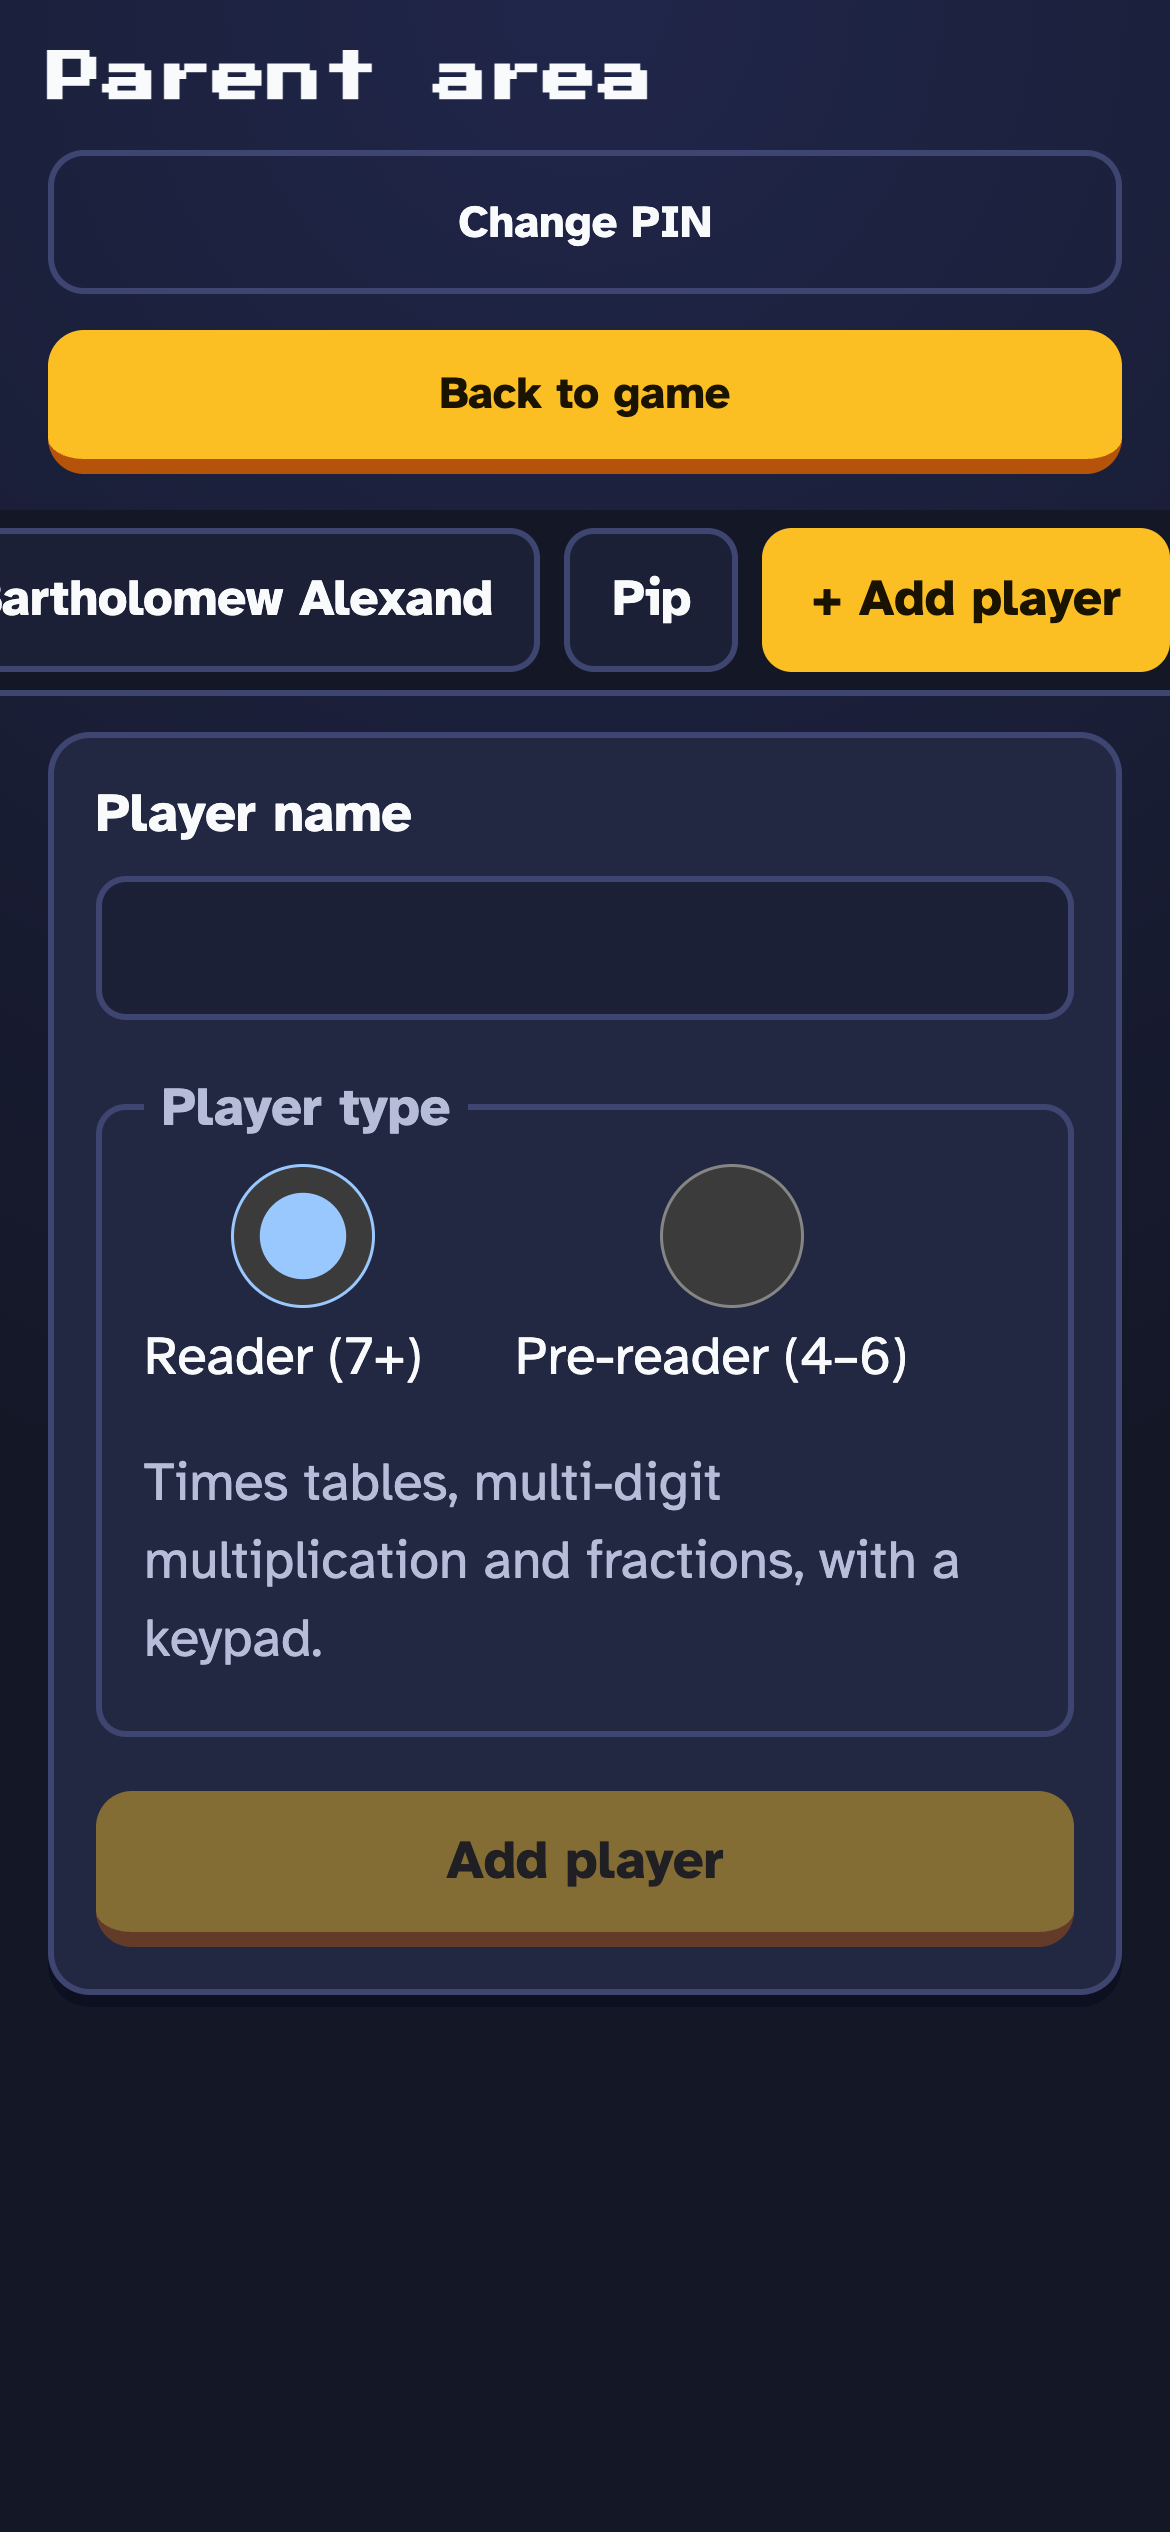
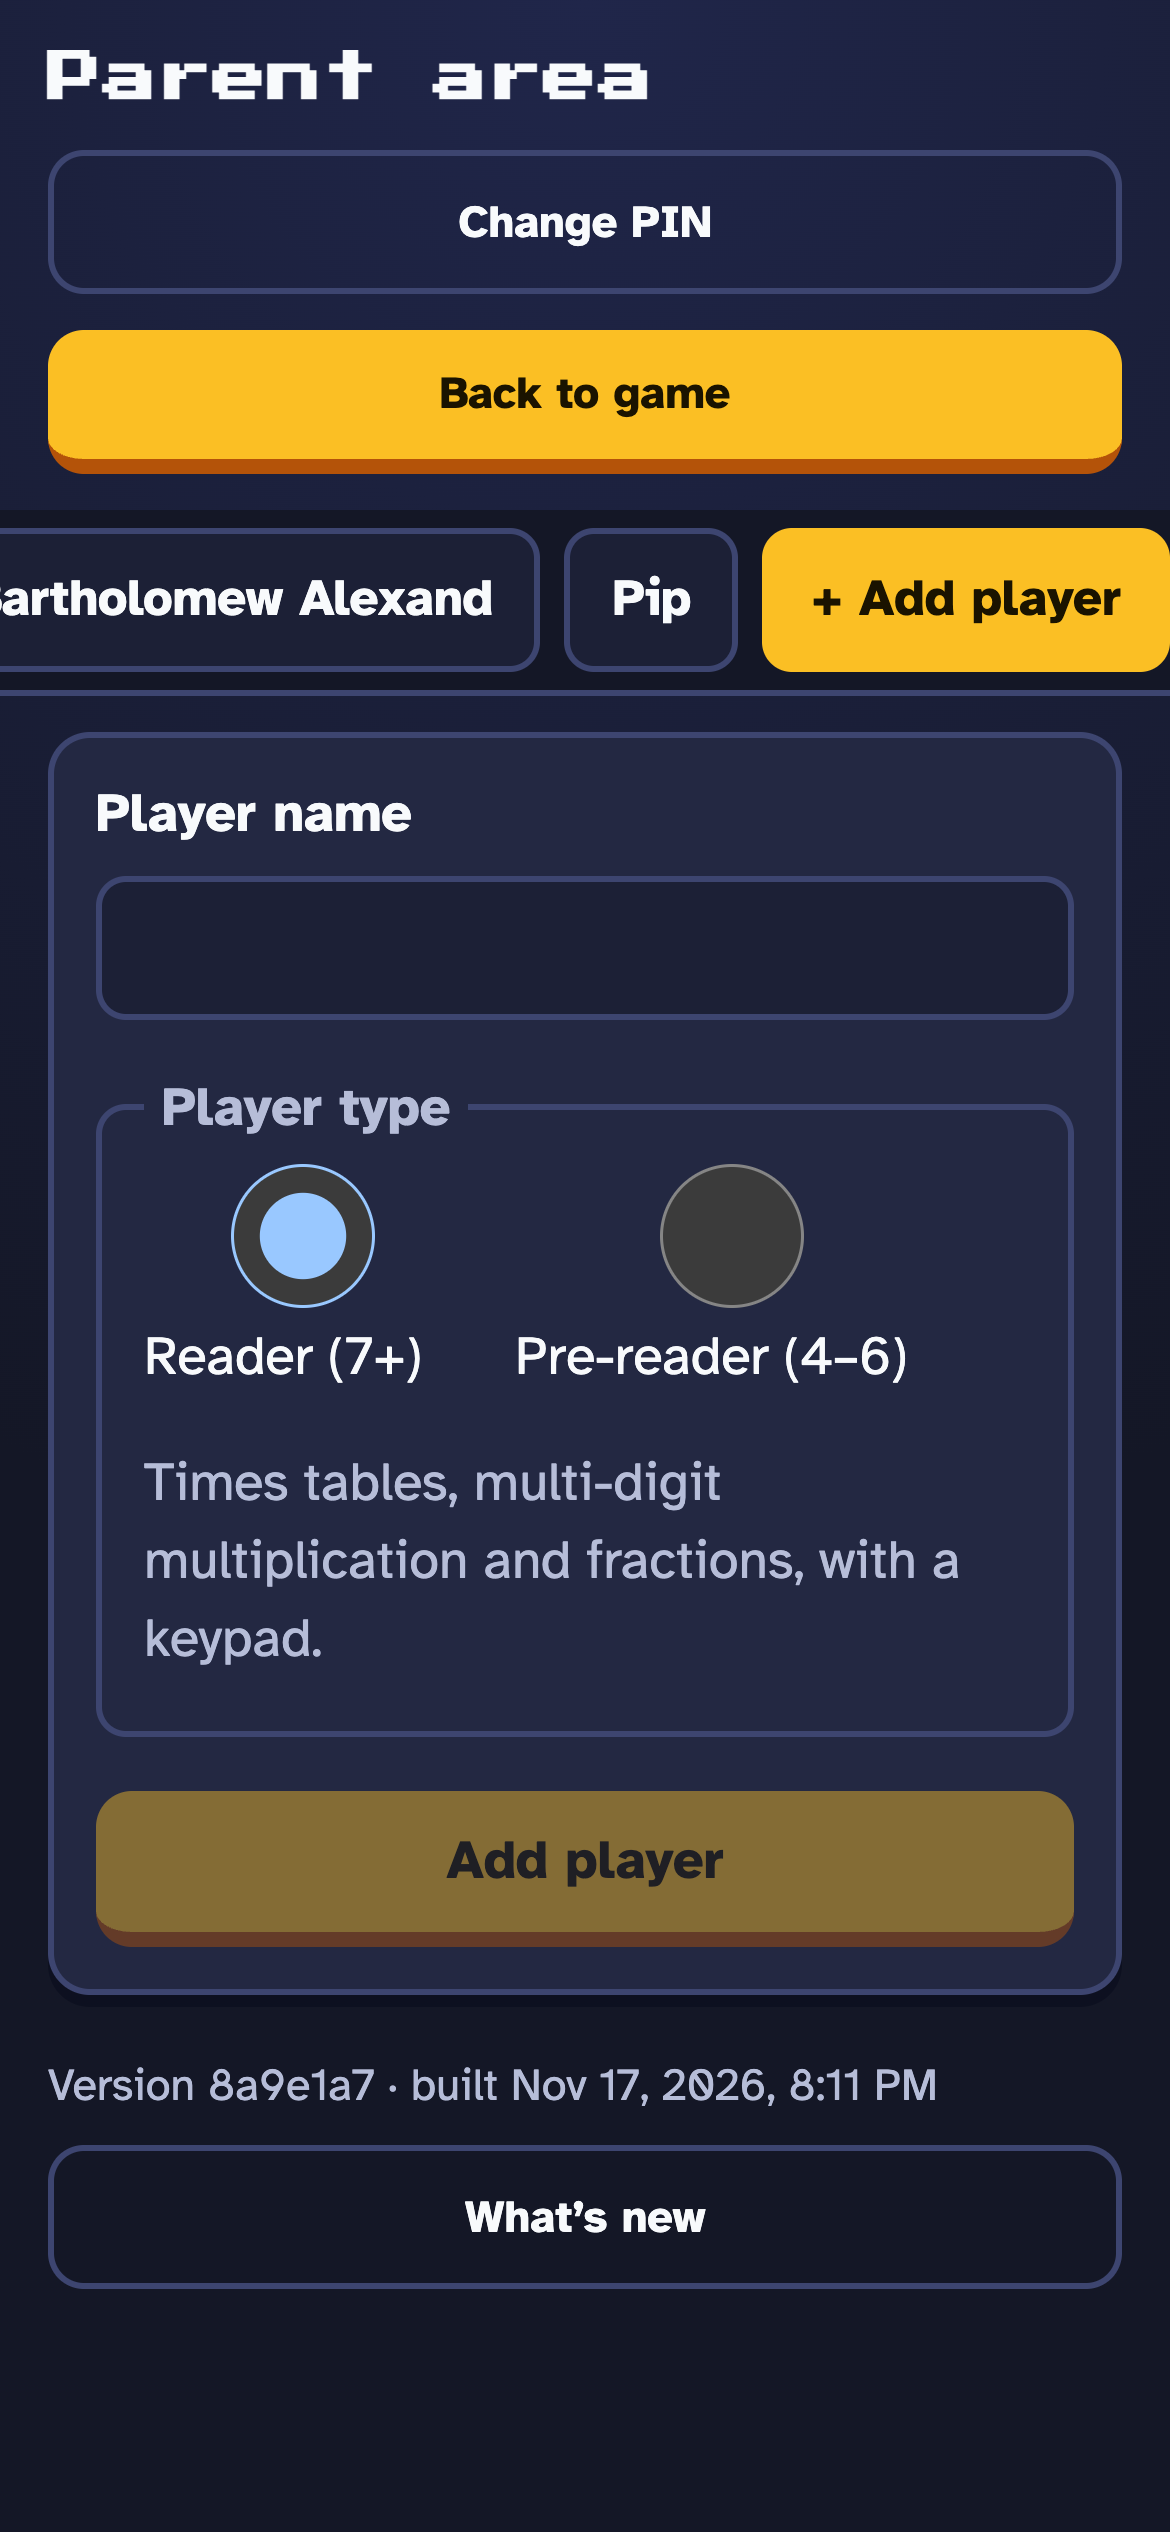
parent-mobile: version footer, What's new list (backfill #10-#19), CI check for src/whatsnew.ts
Footer shows the short sha and build time (Vite define). src/whatsnew.ts keeps the last 10 merged changes.
scripts/check-whatsnew.mjs fails a PR that changes src/ without src/whatsnew.ts unless it has the no-whatsnew label.

diff --git a/scripts/check-whatsnew.test.ts b/scripts/check-whatsnew.test.ts
@@ -1,0 +1,70 @@
+import { mkdirSync, mkdtempSync, writeFileSync } from 'node:fs';
+import { tmpdir } from 'node:os';
+import { join } from 'node:path';
+import { spawnSync } from 'node:child_process';
+import { fileURLToPath } from 'node:url';
+import { describe, expect, it } from 'vitest';
+import { checkWhatsnew } from './check-whatsnew.mjs';
+
+const root = fileURLToPath(new URL('..', import.meta.url));
+const run = (files: string[], labels: string[]) =>
+  spawnSync(process.execPath, ['scripts/check-whatsnew.mjs'], {
+    cwd: root,
+    encoding: 'utf8',
+    env: { ...process.env, CHANGED_FILES: files.join('\n'), PR_LABELS: JSON.stringify(labels) },
+  });
+
+describe('checkWhatsnew (pure)', () => {
+  it('fails when src/ changes and whatsnew.ts does not', () => {
+    expect(checkWhatsnew({ files: ['src/ui/screens/Parent.tsx'], labels: [] }).ok).toBe(false);
+  });
+  it('passes when src/whatsnew.ts changes too', () => {
+    expect(checkWhatsnew({ files: ['src/ui/screens/Parent.tsx', 'src/whatsnew.ts'], labels: [] }).ok).toBe(true);
+  });
+  it('passes with the no-whatsnew label', () => {
+    expect(checkWhatsnew({ files: ['src/engine/mastery.ts'], labels: ['no-whatsnew'] }).ok).toBe(true);
+  });
+  it('passes when nothing under src/ changes', () => {
+    expect(checkWhatsnew({ files: ['README.md', 'firestore.rules', 'e2e/a.e2e.ts'], labels: [] }).ok).toBe(true);
+  });
+});
+
+describe('scripts/check-whatsnew.mjs on a fake diff', () => {
+  it('exits 1 for src/ without whatsnew', () => {
+    const r = run(['src/styles.css', 'README.md'], ['bug']);
+    expect(r.status).toBe(1);
+    expect(r.stderr).toMatch(/whatsnew/);
+  });
+  it('exits 0 when whatsnew.ts is in the diff', () => {
+    expect(run(['src/styles.css', 'src/whatsnew.ts'], []).status).toBe(0);
+  });
+  it('exits 0 with the no-whatsnew label', () => {
+    expect(run(['src/styles.css'], ['no-whatsnew']).status).toBe(0);
+  });
+});
+
+describe('scripts/check-whatsnew.mjs reading git', () => {
+  it('fails on a real diff that touches src/ only, passes when whatsnew.ts is added', () => {
+    const git = (cwd: string, ...a: string[]) => spawnSync('git', a, { cwd, encoding: 'utf8' });
+    const dir = mkdtempSync(join(tmpdir(), 'wn-'));
+    git(dir, 'init', '-q');
+    git(dir, 'config', 'user.email', 'a@b.c');
+    git(dir, 'config', 'user.name', 'x');
+    mkdirSync(join(dir, 'src'));
+    writeFileSync(join(dir, 'src/a.ts'), '1');
+    writeFileSync(join(dir, 'src/whatsnew.ts'), '1');
+    git(dir, 'add', '.');
+    git(dir, 'commit', '-qm', 'base');
+    const base = git(dir, 'rev-parse', 'HEAD').stdout.trim();
+    writeFileSync(join(dir, 'src/a.ts'), '2');
+    git(dir, 'commit', '-qam', 'src only');
+    const head1 = git(dir, 'rev-parse', 'HEAD').stdout.trim();
+    writeFileSync(join(dir, 'src/whatsnew.ts'), '2');
+    git(dir, 'commit', '-qam', 'with whatsnew');
+    const head2 = git(dir, 'rev-parse', 'HEAD').stdout.trim();
+    const script = join(root, 'scripts/check-whatsnew.mjs');
+    const go = (head: string) => spawnSync(process.execPath, [script], { cwd: dir, encoding: 'utf8', env: { ...process.env, CHANGED_FILES: undefined, BASE_SHA: base, HEAD_SHA: head, PR_LABELS: '[]' } });
+    expect(go(head1).status).toBe(1);
+    expect(go(head2).status).toBe(0);
+  });
+});

diff --git a/src/whatsnew.ts b/src/whatsnew.ts
@@ -1,0 +1,44 @@
+// What's new: the last 10 merged changes in plain words, newest first. Every PR that changes src/ adds its line here
+// (CI check: scripts/check-whatsnew.mjs). Mark a change kids cannot see with behindTheScenes, and a change behind a
+// parent setting with setting. No kid names.
+
+declare const __APP_SHA__: string | undefined;
+declare const __APP_BUILD__: number | undefined;
+
+export interface WhatsNewEntry {
+  pr: number;
+  text: string;
+  /** Kids cannot see it. */
+  behindTheScenes?: boolean;
+  /** Off until a parent turns it on. */
+  setting?: boolean;
+}
+
+export const WHATS_NEW: readonly WhatsNewEntry[] = [
+  { pr: 20, text: 'The parent area fits an iPhone: a row of players at the top, two-column stat tiles, a times-table grid you can tap, full-width buttons. Pinch-zoom works for parents. Kids cannot pinch-zoom while they play. A version line at the bottom shows which build is live.' },
+  { pr: 19, text: 'A parent can choose which sum group a player starts at for Addition and Subtraction within 10.', setting: true },
+  { pr: 18, text: 'PIN screens have no GO key. The 4th digit signs in. A wrong PIN shakes and clears, and typing in the name box no longer enters PIN digits.' },
+  { pr: 16, text: 'Gems can only go down in the same save that buys a hero. A stale screen can no longer erase gems.', behindTheScenes: true },
+  { pr: 15, text: 'An old copy of the app shows an update screen. A save that fails now says so, and tapping it tries again.' },
+  { pr: 14, text: 'The parent area shows live XP, gems, hero and a gem history. Pre-readers get a hero shop with pictures only.' },
+  { pr: 13, text: 'Rules now refuse any save that lowers XP or best combo, or removes a hero.', behindTheScenes: true },
+  { pr: 12, text: 'On the pre-reader Home button, a quick tap wiggles the house and says how to go home. Holding for 1.2 seconds goes home.' },
+  { pr: 11, text: 'Only one safe write changes a player’s game numbers, so two devices can no longer overwrite each other.', behindTheScenes: true },
+  { pr: 10, text: 'The Dungeon run and the pre-reader run now share one engine. The game looks the same.', behindTheScenes: true },
+];
+
+export const entryText = (e: WhatsNewEntry): string =>
+  `${e.text}${e.behindTheScenes ? ' (behind the scenes)' : ''}${e.setting ? ' (turn on in Settings)' : ''}`;
+
+export const recentChanges = (): readonly WhatsNewEntry[] => WHATS_NEW.slice(0, 10);
+
+/** The short commit and the build time, injected by Vite define at build time. */
+export const BUILD_SHA: string = typeof __APP_SHA__ === 'string' ? __APP_SHA__ : 'dev';
+const BUILD_SECONDS: number | null = typeof __APP_BUILD__ === 'number' && __APP_BUILD__ < 1e11 ? __APP_BUILD__ : null;
+
+export function buildLabel(sha: string = BUILD_SHA, seconds: number | null = BUILD_SECONDS): string {
+  const when = seconds
+    ? new Date(seconds * 1000).toLocaleString([], { month: 'short', day: 'numeric', year: 'numeric', hour: 'numeric', minute: '2-digit' })
+    : 'now (dev)';
+  return `Version ${sha} · built ${when}`;
+}

diff --git a/e2e/parentMobile.e2e.ts b/e2e/parentMobile.e2e.ts
@@ -1,3 +1,4 @@
+import { execSync } from 'node:child_process';
 import { createHash, randomInt } from 'node:crypto';
 import { mkdirSync } from 'node:fs';
 import { expect, test, type Page } from '@playwright/test';
@@ -90,7 +91,7 @@ async function seed(page: Page, opts: { family?: boolean } = {}) {
 }
 
 async function shot(page: Page, w: number, name: string, fullPage = false) {
-  if (SHOTS && w === 390) await page.screenshot({ path: `${SHOTS}/${name}-390.png`, fullPage });
+  if (SHOTS && (w === 390 || (w === 375 && /version|whatsnew/.test(name)))) await page.screenshot({ path: `${SHOTS}/${name}-${w}.png`, fullPage });
 }
 async function enterPin(page: Page, pin: string) {
   for (const d of pin) await page.locator('.keypad .key', { hasText: new RegExp(`^${d}$`) }).click();
@@ -264,6 +265,26 @@ for (const { w, h } of PHONES) {
       await page.getByRole('button', { name: 'Change PIN' }).first().click();
       await expect(page.locator('.keypad')).toBeVisible();
       await expectFits(page, 'change parent pin');
+    });
+
+    test('footer shows the injected sha and build time, fits, and opens What\'s new with 10 entries', async ({ page }) => {
+      await seed(page);
+      await openParent(page);
+      await pickKid(page, READER_NAME);
+      const footer = page.locator('.version-footer');
+      await footer.scrollIntoViewIfNeeded();
+      const sha = execSync('git rev-parse --short HEAD', { encoding: 'utf8' }).trim();
+      await expect(footer).toContainText(`Version ${sha} · built `);
+      await expect(footer).toContainText(/built .*\d/);
+      await expectFits(page, 'version footer');
+      await shot(page, w, 'parent-version-footer', false);
+      await footer.getByRole('button', { name: /what.s new/i }).click();
+      const items = page.locator('.whatsnew li');
+      await expect(items).toHaveCount(10);
+      await expect(page.locator('.whatsnew')).toContainText('(behind the scenes)');
+      await expect(page.locator('.whatsnew')).toContainText('(turn on in Settings)');
+      await expectFits(page, 'whats new');
+      await shot(page, w, 'parent-whatsnew', false);
     });
 
     test('header buttons are at least 44 px and sit inside the screen', async ({ page }) => {

diff --git a/src/whatsnew.test.ts b/src/whatsnew.test.ts
@@ -1,0 +1,29 @@
+import { describe, expect, it } from 'vitest';
+import { WHATS_NEW, buildLabel, entryText, recentChanges } from './whatsnew';
+
+describe('whatsnew', () => {
+  it('keeps the last 10 merged changes, newest first, one entry per PR', () => {
+    const list = recentChanges();
+    expect(list).toHaveLength(10);
+    const prs = list.map((e) => e.pr);
+    expect(new Set(prs).size).toBe(10);
+    expect([...prs].sort((a, b) => b - a)).toEqual(prs);
+    expect(WHATS_NEW.length).toBeGreaterThanOrEqual(10);
+  });
+  it('backfills #10 to #19 that merged', () => {
+    const prs = recentChanges().map((e) => e.pr);
+    for (const n of [10, 11, 12, 13, 14, 15, 16, 18, 19, 20]) expect(prs).toContain(n);
+  });
+  it('marks changes kids cannot see and changes behind a setting', () => {
+    const list = recentChanges();
+    expect(list.some((e) => entryText(e).endsWith('(behind the scenes)'))).toBe(true);
+    expect(list.some((e) => entryText(e).endsWith('(turn on in Settings)'))).toBe(true);
+  });
+  it('uses plain words: no PR jargon, no real names', () => {
+    for (const e of recentChanges()) expect(e.text).not.toMatch(/bastian|—|–/i);
+  });
+  it('builds the footer label from a sha and a build time', () => {
+    const t = Date.UTC(2026, 10, 18, 4, 30) / 1000;
+    expect(buildLabel('abc1234', t)).toMatch(/^Version abc1234 · built .+/);
+  });
+});

diff --git a/src/ui/screens/Parent.tsx b/src/ui/screens/Parent.tsx
@@ -12,6 +12,7 @@ import { median } from '../../engine/scheduler';
 import { hashPin, type Repo } from '../../data/repo';
 import { dataMode, kidLockStatus, setKidPin, unlockKidSignIn, type KidLockStatus } from '../../firebase';
 import { reportFailure } from '../failures';
+import { buildLabel, entryText, recentChanges } from '../../whatsnew';
 import { PinPad } from '../PinPad';
 import { Sprite } from '../sprites';
 
@@ -225,7 +226,26 @@ export function ParentArea({ repo, salt, kids, onKids, onFamily, onExit, onSignO
           }}
         />
       )}
+      <VersionFooter />
     </div>
+  );
+}
+
+/** Which build is live, and what changed in the last 10 merged changes. */
+function VersionFooter() {
+  const [open, setOpen] = useState(false);
+  return (
+    <footer className="version-footer">
+      <p className="muted version-line">{buildLabel()}</p>
+      <button type="button" className="btn btn-small btn-ghost" aria-expanded={open} onClick={() => setOpen((o) => !o)}>
+        {open ? 'Hide what\u2019s new' : 'What\u2019s new'}
+      </button>
+      {open ? (
+        <ol className="whatsnew" aria-label="What's new">
+          {recentChanges().map((e) => <li key={e.pr}>{entryText(e)}</li>)}
+        </ol>
+      ) : null}
+    </footer>
   );
 }
 

diff --git a/vite.config.ts b/vite.config.ts
@@ -1,3 +1,4 @@
+import { execSync } from 'node:child_process';
 import react from '@vitejs/plugin-react';
 import { VitePWA } from 'vite-plugin-pwa';
 import { defineConfig, type Plugin } from 'vitest/config';
@@ -6,6 +7,16 @@ import { defineConfig, type Plugin } from 'vitest/config';
 // script's tests). The bundle compares it with config/app.minVersion; dist/version.json carries the same number
 // for scripts/set-min-version.mjs, which sets minVersion after the deploy.
 const BUILD = Number(process.env.APP_BUILD) || Math.floor(Date.now() / 1000);
+
+// The short commit shown in the parent area footer. APP_SHA overrides it; a build with no git says "dev".
+function shortSha(): string {
+  if (process.env.APP_SHA) return process.env.APP_SHA.slice(0, 7);
+  try {
+    return execSync('git rev-parse --short HEAD', { encoding: 'utf8', stdio: ['ignore', 'pipe', 'ignore'] }).trim() || 'dev';
+  } catch {
+    return 'dev';
+  }
+}
 
 function versionJson(): Plugin {
   return {
@@ -17,7 +28,7 @@ function versionJson(): Plugin {
 }
 
 export default defineConfig({
-  define: { __APP_BUILD__: JSON.stringify(BUILD) },
+  define: { __APP_BUILD__: JSON.stringify(BUILD), __APP_SHA__: JSON.stringify(shortSha()) },
   plugins: [
     react(),
     versionJson(),

diff --git a/src/styles.css b/src/styles.css
@@ -665,3 +665,12 @@ legend { padding: 0 6px; color: var(--muted); }
 /* Coverage line in the parent area, and the hint above a preview question. */
 .coverage { list-style: none; margin: 0 0 12px; padding: 0 4px; display: grid; gap: 4px; color: var(--muted, #aab); }
 .preview-hint { margin: 0 0 8px; font-size: 18px; }
+
+/* ---- Parent footer: build version and What's new ---- */
+.version-footer { display: flex; flex-direction: column; align-items: flex-start; gap: 8px; padding: 8px 0 16px; }
+.version-line { margin: 0; font-size: 15px; overflow-wrap: anywhere; }
+.whatsnew { margin: 0; padding-left: 22px; display: grid; gap: 8px; line-height: 1.4; }
+.whatsnew li { overflow-wrap: anywhere; }
+@media (max-width: 600px) {
+  .version-footer .btn { width: 100%; min-height: 48px; }
+}
